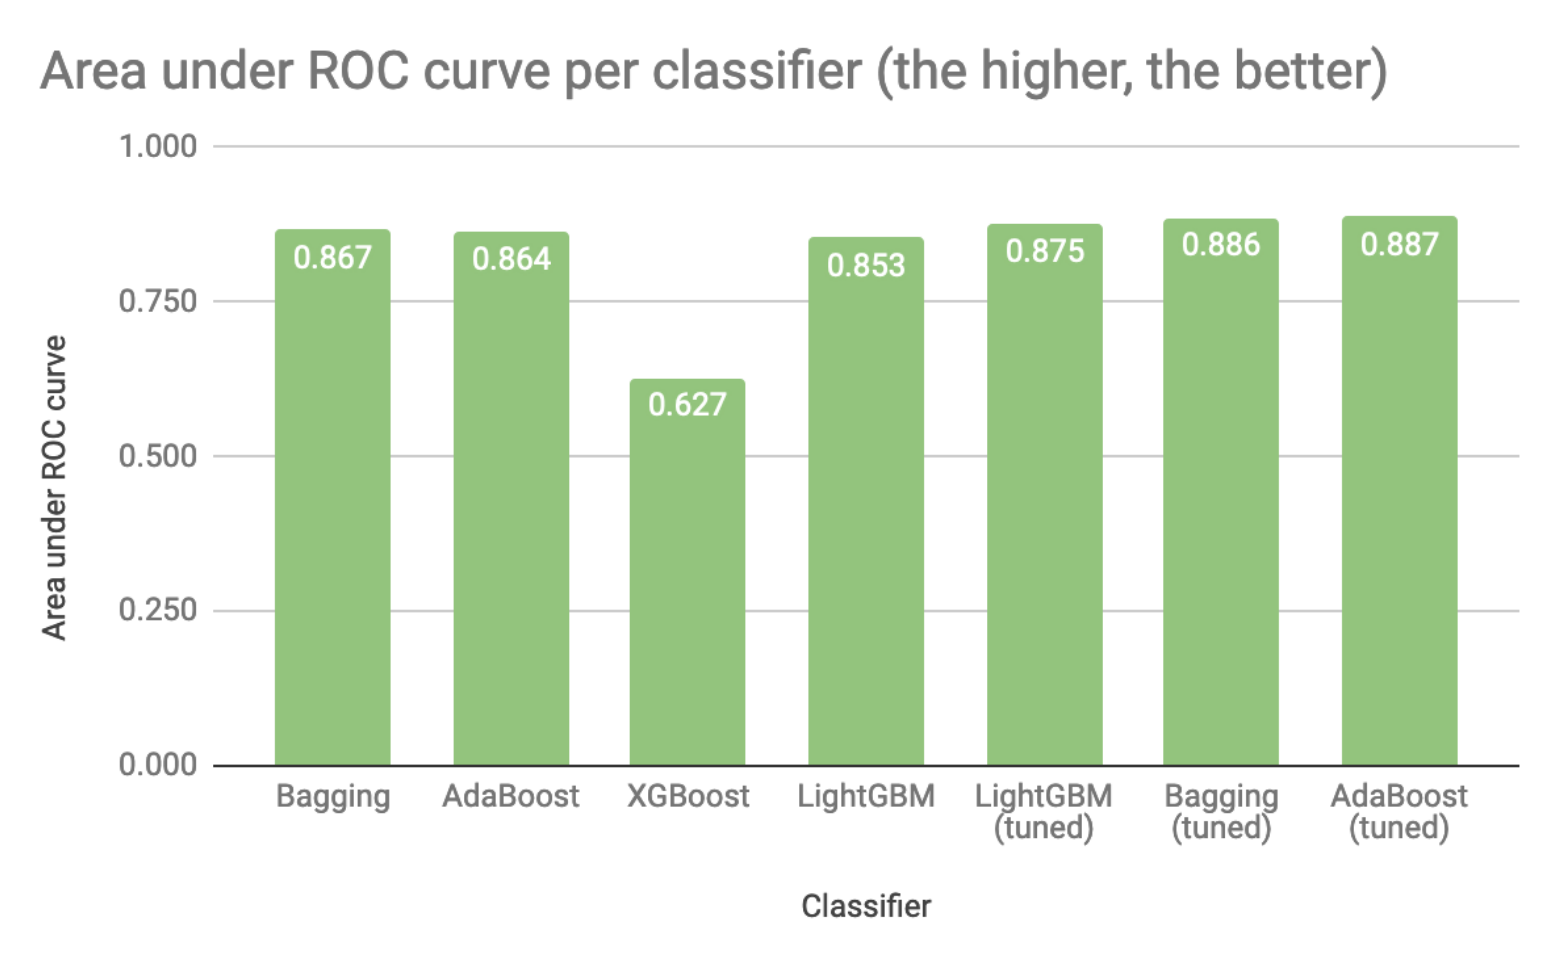
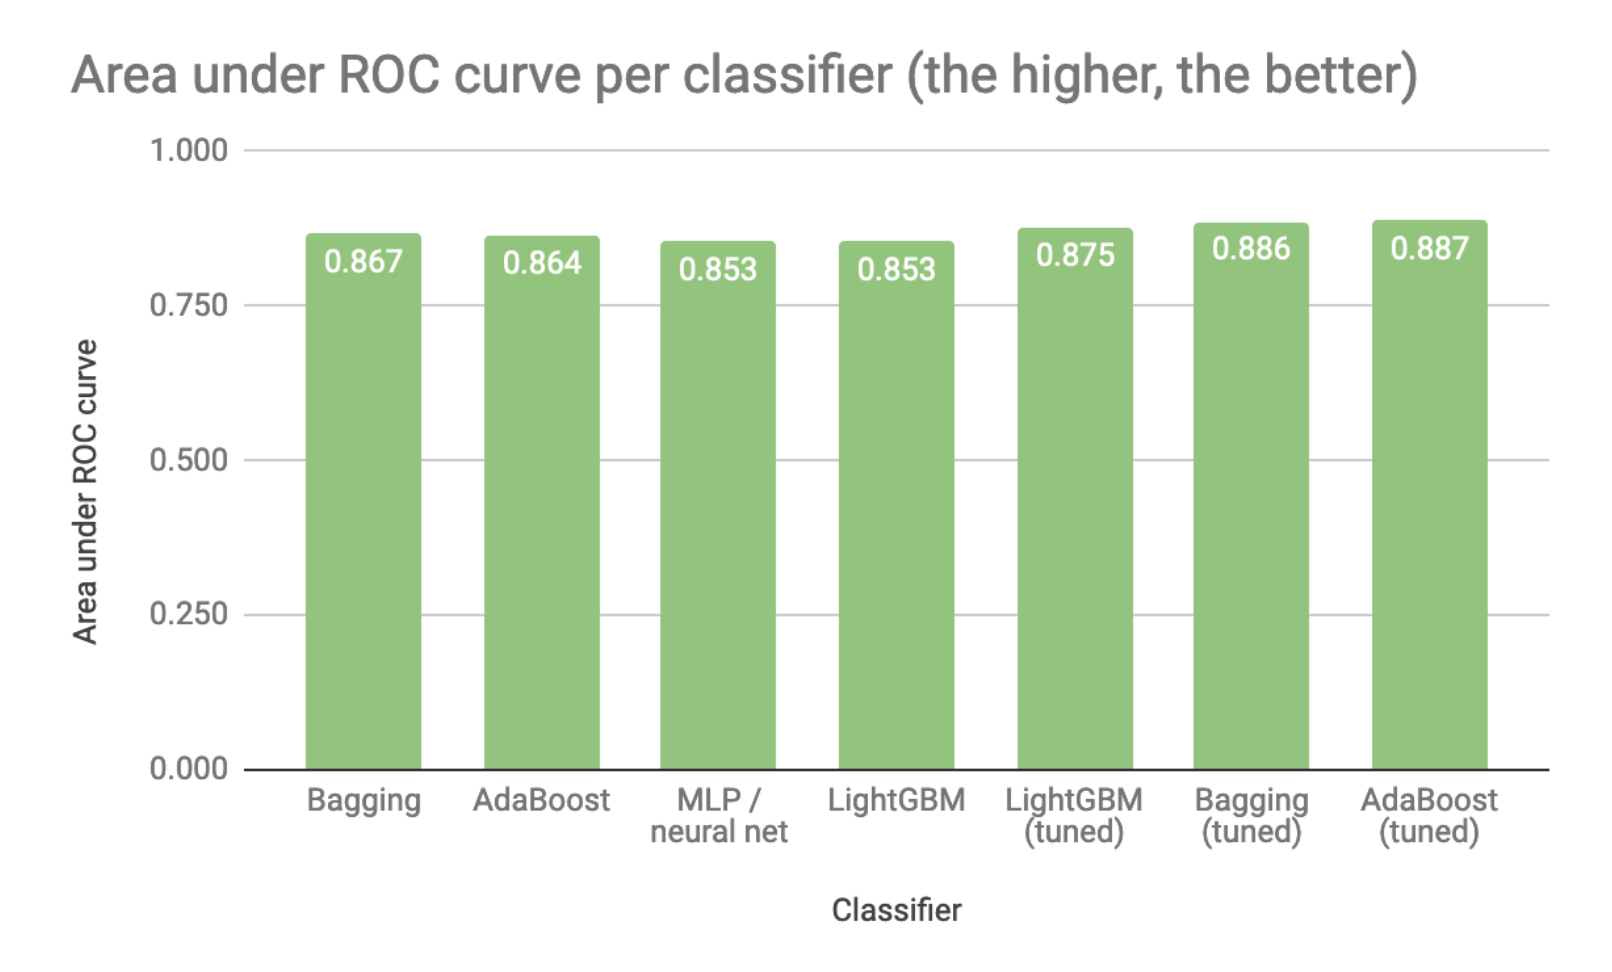
Wording changes

diff --git a/README.md b/README.md
@@ -11,7 +11,7 @@ kaggle competition @ https://www.kaggle.com/c/santander-customer-transaction-pre
 
 ![Results](https://github.com/manuelfreude/kagglesantander/blob/master/santander_results.png)
 
-Of the initial 9 classifiers, the best-performing ones were LightGBM, Bagging, MLP/neural nets and AdaBoost with a LightGBM base estimator. Fine-tuning further raised each one's performance except for MLP. The best-performing algorithm was AdaBoost, which was subsequently used for predicting the customer transaction probability for the test dataset.
+Of the initial 9 classifiers, the best-performing ones were Bagging, AdaBoost, MLP/neural nets and LightGBM. Fine-tuning further raised each one's performance except for MLP. The best-performing algorithm was AdaBoost with a LightGBM base estimator, which was subsequently used for predicting the customer transaction probability for the test dataset in the kaggle contest.
 
 The initial submission ranked 1,145 out of 1,398 or top 57%, and was passed down the ranks to the top 67% of 9,038 participants at the end of the competition.
 
@@ -20,5 +20,3 @@ The initial submission ranked 1,145 out of 1,398 or top 57%, and was passed down
 ### Conclusion / further improvements
 
 Santander provided a completely anonymized and uncorrelated dataset. Therefore, feature engineering along a detailed understanding of things behind the data was not possible. Feature engineering with statistical measures for the given variables (e.g. mean, running averages etc.) would have added further value to the classifier's performance. Yet the competition was more of an algorithm tuning one, I was happy with the final ranking and moved on to the LANL earthquake prediction, for which I have conducted statistical feature engineering for the given variables.
-
-![kaggle_fin](https://github.com/manuelfreude/kagglesantander/blob/master/kaggle_dashboard_santander_ii.png)
